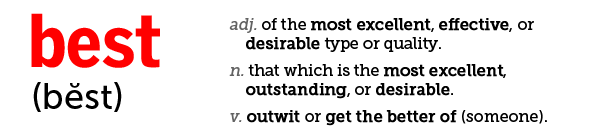
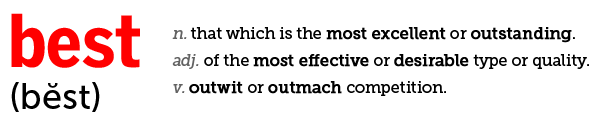
From Heaven:
1.       Munck Wilson Mandala Attorneys Earn D Magazine’s 2014 “Best Lawyers in Dallas”
2.       Take out the munckwilson.com from the top
3.       Cut the office addresses completely
4.       At bottom I want to tell the person to CLICK HERE FOR MORE  (then put # 8 below underneath it)
5.       Are we allowed to copyright tag this? Do we have to do something in order to put that on there?
6.       Change to Larry Mandala, not Lawrence
7.       I like the facebook/linkedin buttons thing I’m sending in the next email, but is that too much work?
8.       I want to also incorporate these three words at bottom in straight line with a vertical line ( I )  between each word :
Trials
Transactions
Technology
9.       Definition changes:
n. put noun first please – and cut desirable from noun one
so it will read : that which is the most excellent, outstanding

adj. take out excellent so it reads:
of the most effective, desirable type or quality

Change the verb one to:
v. to outwit or outmatch competition

Changed region(s): [[0.0, 0.075, 0.99, 0.9], [0.0, 0.575, 0.21, 0.925]]

diff --git a/mw.html b/mw.html
@@ -1,11 +1,12 @@
+
 <!DOCTYPE html PUBLIC "-//W3C//DTD XHTML 1.0 Transitional//EN" "http://www.w3.org/TR/xhtml1/DTD/xhtml1-transitional.dtd">
 <html><head>
   <meta http-equiv="Content-Type" content="text/html; charset=UTF-8">
 
   <!-- Facebook sharing information tags -->
-  <meta property="og:title" content="*|MC:SUBJECT|*">
+  <meta property="og:title" content="Munck Wilson Mandala Attorneys Earn D Magazine’s 2014 &ldquo;Best Lawyers in Dallas&rdquo;">
 
-  <title>Subject</title>
+  <title>Munck Wilson Mandala Attorneys Earn D Magazine’s 2014 &rdquo;Best Lawyers in Dallas&rdquo;</title>
   <style type="text/css">
   /* Client-specific Styles */
   #outlook a{padding:0;} /* Force Outlook to provide a "view in browser" button. */
@@ -462,9 +463,7 @@
                     <table border="0" cellpadding="10" cellspacing="0" width="100%">
                       <tbody><tr>
                         <td valign="top">
-                          <div mc:edit="std_preheader_content">
-                           5 attorneys from Munck Wilson Mandala have been names as the Best Lawyers in Dallas for 2014 according to D Magazine.
-                         </div>
+                          <div style="text-align: center;">Munck Wilson Mandala Attorneys Earn D Magazine’s 2014 &ldquo;Best Lawyers in Dallas&rdquo;</div>
                        </td>
                      </tr>
                    </tbody></table>
@@ -483,7 +482,7 @@
 
                         <!-- // Begin Module: Top Image with Content \\ -->
                         <table border="0" cellpadding="0" cellspacing="0" width="100%">
-                          <tbody><tr mc:repeatable="">
+                          <tbody><tr>
                             <td valign="top">
                               <a href="http://www.munckwilson.com"><img src="http://kason.es/mw-img/logo.png" style="max-width:580px;"></a>
                             </td>
@@ -503,7 +502,7 @@
 
                         <!-- // Begin Module: Top Image with Content \\ -->
                         <table border="0" cellpadding="0" cellspacing="0" width="100%">
-                          <tbody><tr mc:repeatable="">
+                          <tbody><tr>
                             <td valign="top">
                               <img src="http://kason.es/mw-img/alibhai.png" style="max-width:180px;">
                             </td>
@@ -516,7 +515,7 @@
 
                         <!-- // Begin Module: Top Image with Content \\ -->
                         <table border="0" cellpadding="0" cellspacing="0" width="100%">
-                          <tbody><tr mc:repeatable="">
+                          <tbody><tr>
                             <td valign="top">
                               <img src="http://kason.es/mw-img/munck.png" style="max-width:180px;">
                             </td>
@@ -529,7 +528,7 @@
 
                         <!-- // Begin Module: Top Image with Content \\ -->
                         <table border="0" cellpadding="0" cellspacing="0" width="100%">
-                          <tbody><tr mc:repeatable="">
+                          <tbody><tr>
                             <td valign="top">
                               <img src="http://kason.es/mw-img/mandala.png" style="max-width:180px;">
                             </td>
@@ -544,7 +543,7 @@
 
                         <!-- // Begin Module: Top Image with Content \\ -->
                         <table border="0" cellpadding="0" cellspacing="0" width="100%">
-                          <tbody><tr mc:repeatable="">
+                          <tbody><tr>
                             <td valign="top">
                               <img src="http://kason.es/mw-img/mross.png" style="max-width:180px;">
                             </td>
@@ -557,7 +556,7 @@
 
                         <!-- // Begin Module: Top Image with Content \\ -->
                         <table border="0" cellpadding="0" cellspacing="0" width="100%">
-                          <tbody><tr mc:repeatable="">
+                          <tbody><tr>
                             <td valign="top">
                             <img src="http://kason.es/mw-img/dmag.png" style="max-width:180px;">
 
@@ -571,7 +570,7 @@
 
                       <!-- // Begin Module: Top Image with Content \\ -->
                       <table border="0" cellpadding="0" cellspacing="0" width="100%">
-                        <tbody><tr mc:repeatable="">
+                        <tbody><tr>
                           <td valign="top">
                             <img src="http://kason.es/mw-img/mccabe.png" style="max-width:180px;">
                           </td>
@@ -586,33 +585,17 @@
               </td>
             </tr>
             <tr>
-              <td align="center" valign="top">
+              <td align="center" valign="middle">
                 <!-- // Begin Template Footer \\ -->
                 <table border="0" cellpadding="10" cellspacing="0" width="600" id="templateFooter">
                   <tbody><tr>
-                    <td valign="top" class="footerContent">
+                    <td valign="middle" class="footerContent">
 
                       <!-- // Begin Module: Standard Footer \\ -->
                       <table border="0" cellpadding="10" cellspacing="0" width="100%">
                         <tbody><tr>
-                          <td colspan="2" valign="middle" id="social">
+                          <td valign="middle" id="social">
                             <img src="http://kason.es/mw-img/best.png" style="max-width:600px;">
-                          </td>
-                        </tr>
-                        <tr>
-                          <td valign="top" width="50%">
-                            <div>
-                              Dallas<br>
-                              600 Banner Place Tower, 12770 Coit Road<br>
-                              Dallas, Texas 75251    972.628.3600
-                            </div>
-                          </td>
-                          <td valign="top" width="50%" id="monkeyRewards">
-                            <div>
-                              MARSHALL<br>
-                              110 South Bolivar, Suite 204<br>
-                              Marshall, Texas 75670    903.935.7900
-                            </div>
                           </td>
                         </tr>
                       </tbody></table>
@@ -620,9 +603,56 @@
 
                     </td>
                   </tr>
+                        <tr>
+                          <td valign="middle" class="footerContent">
+                      <table border="0" cellpadding="3" cellspacing="0" width="100%">
+                        <tbody><tr>
+                          <td width="45%" valign="middle">
+                            <div style="text-align:right !important; font-size:14px !important;">
+                            Share this on:
+                          </div>
+                          </td>
+                          <td width="6.5%" style="text-align:center;">
+                            <a href="https://twitter.com/share?url=http%3A%2F%2Fwww.kason.es/mw.html"><img src="http://kason.es/mw-img/twitter.png"></a>
+                          </td>
+                          <td width="6.5%" style="text-align:center;">
+                            <a href="http://www.facebook.com/share.php?u=http%3A%2F%2Fwww.kason.es/mw.html"><img src="http://kason.es/mw-img/facebook.png"></a>
+                          </td>
+                          <td width="6.5%" style="text-align:center;">
+                          <a href="http://www.linkedin.com/shareArticle?mini=true&url=http%3A%2F%2Fwww.kason.es/mw.html&title=Munck%20Wilson%20Mandala%20Attorneys%20Earn%20D%20Magazine%E2%80%99s%202014%20%E2%80%9CBest%20Lawyers%20in%20Dallas%E2%80%9D"><img src="http://kason.es/mw-img/linkedin.png"></a>
+                          </td>
+                          <td width="6.5%" style="text-align:center;">
+                            <a href="mailto:?body=http%3A%2F%2Fwww.kason.es/mw.html"><img src="http://kason.es/mw-img/email.png"></a>
+                          </td>
+                          <td></td>
+
+                        </tr>
+                      </tbody></table>
+
+                             
+                          </td>
+                        </tr>
+                        <tr>
+                          <td valign="middle" class="footerContent">
+
+                      <table border="0" cellpadding="3" cellspacing="0" width="100%">
+                        <tbody><tr>
+                          <td>
+                            <div style="text-align:center !important"><a style="color:#707070;" href="http://www.munckwilson.com">www.munckwilson.com</a></div>
+                          </td>
+                          </tr>
+                          <tr>
+                            <td>
+                            <div style="text-align: center !important;">Trials | Tranactions | Technology</div>
+                          </td>
+                          </tr>
+                        </tbody>
+                      </table>
+                          </td>
+                        </tr>
 
                         <tr>
-                          <td colspan="2" valign="middle" class="footerContent">
+                          <td valign="middle" class="footerContent">
                             <div style="text-align:center !important">
                               &copy; 2014 Munck Wilson Mandala, LLP
                             </div>
